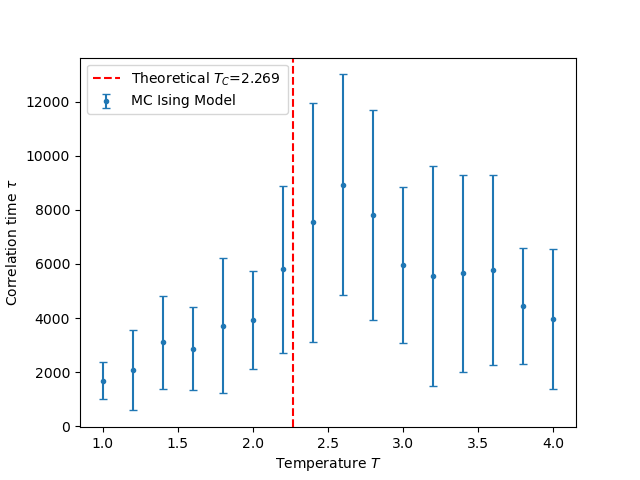
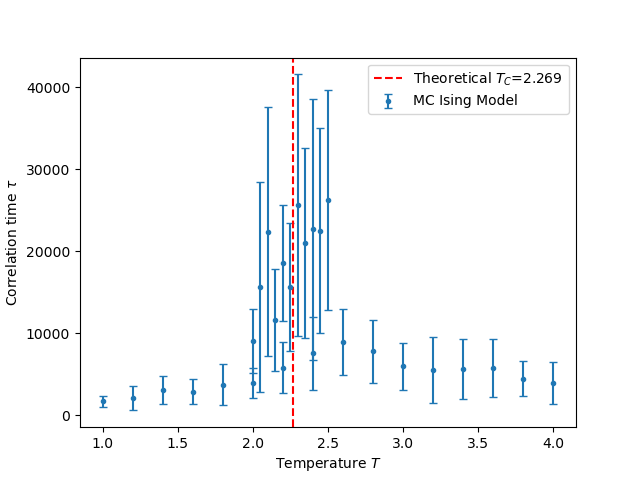
asdf

diff --git a/examples/advanced_properties.py b/examples/advanced_properties.py
@@ -44,11 +44,28 @@ quick_settings = {
 	"initial_distribution": 0.75,
 	"tmin": 1,
 	"tmax": 4,
-	"t_step_size": 0.5,
+	"t_step_size": 1,
 	"equilibrize_sweep_length": 5,
-	"tau_sweeps": 2,
-	"N_tau": 5,
-	"max_blocks": 15,
+	"tau_sweeps": 10,
+	"N_tau": 2,
+	"max_blocks": 5,
+	"treshold": 5e-6,
+	"max_sweeps": 50,
+	"sweep_length": 5,
+	"plot": 0
+}
+
+quick_settings_3d = {
+	"size": 20,
+	"dimensions": 3,
+	"initial_distribution": 0.75,
+	"tmin": 1,
+	"tmax": 4,
+	"t_step_size": 1,
+	"equilibrize_sweep_length": 5,
+	"tau_sweeps": 10,
+	"N_tau": 2,
+	"max_blocks": 5,
 	"treshold": 5e-6,
 	"max_sweeps": 50,
 	"sweep_length": 5,
@@ -78,14 +95,19 @@ def main(settings:dict, root_path:str) -> None:
 
 	# Save and plot
 	for value, name in zip(calced_values, value_names):
+		# Users are stupid and might have removed the dir in the time the code ran.
+		ensure_dir(fpath)
+
 		to_file(fpath + slugify(name), value)
 		plot_xy(x=temps, y=value[::, 0], ylabel=name, xlabel="Dimensionless Temperature $T$", yerr=value[::, 1],
 				dir=fpath + "img/")
 
 
 if __name__ == "__main__":
-	# Quick? Uncomment for quick (testing purposes only!):
-# 	settings = quick_settings
-	settings  = critical_temp_settings
+	# What settings? Uncomment for testing purposes:
+	#settings  = critical_temp_settings
+	#settings = quick_settings_3d	# Poor statistics but it will take too long otherwise.
+	settings = quick_settings	# Poor statistics but it will take too long otherwise.
+
 	fpath = f"generated/data"
 	main(settings, fpath)

diff --git a/src/physics.py b/src/physics.py
@@ -161,5 +161,3 @@ def nearest_neighbour_sum(state:np.ndarray, dimensions:int) -> np.ndarray:
 
     # The xor works like spin multiplication (just write down a truth table and it's obvious)
     return np.sum(bool_to_spin(np.logical_xor(state, neighbours))) / 2
-
-

diff --git a/src/analysis.py b/src/analysis.py
@@ -48,6 +48,7 @@ def equilibrilize(mc:object, settings:dict):
 
 		# Check if we reach an 'end value' (derivative does not change)
 		if deriv < treshold:
+			#  We count sweep from 0
 			print(f"Presumably in equilibrium after {sweep+1} sweeps.")
 			break
 

diff --git a/README.md b/README.md
@@ -21,4 +21,10 @@ We intended to write a general Metropolis Algorithm file that will accept any ph
 - Matplotlib
 - Numba
 
-See the report for more information on how to use this, numerical experiments and a reflection.
+See the report for more information on how to use this and numerical experiments on the 2D Ising model.
+
+##Important files
+- The Monte Carlo implementation is contained in ```src/MetropolisAlgorithm.py```.
+- The n dimensional Ising model is contained in ```src/physics.py```.
+- Examples can be found in the examples folder. ```main.py``` executes the contents of ```examples/advanced_properties.py```.
+- You can process data using ```src/data_analysis.py```.
